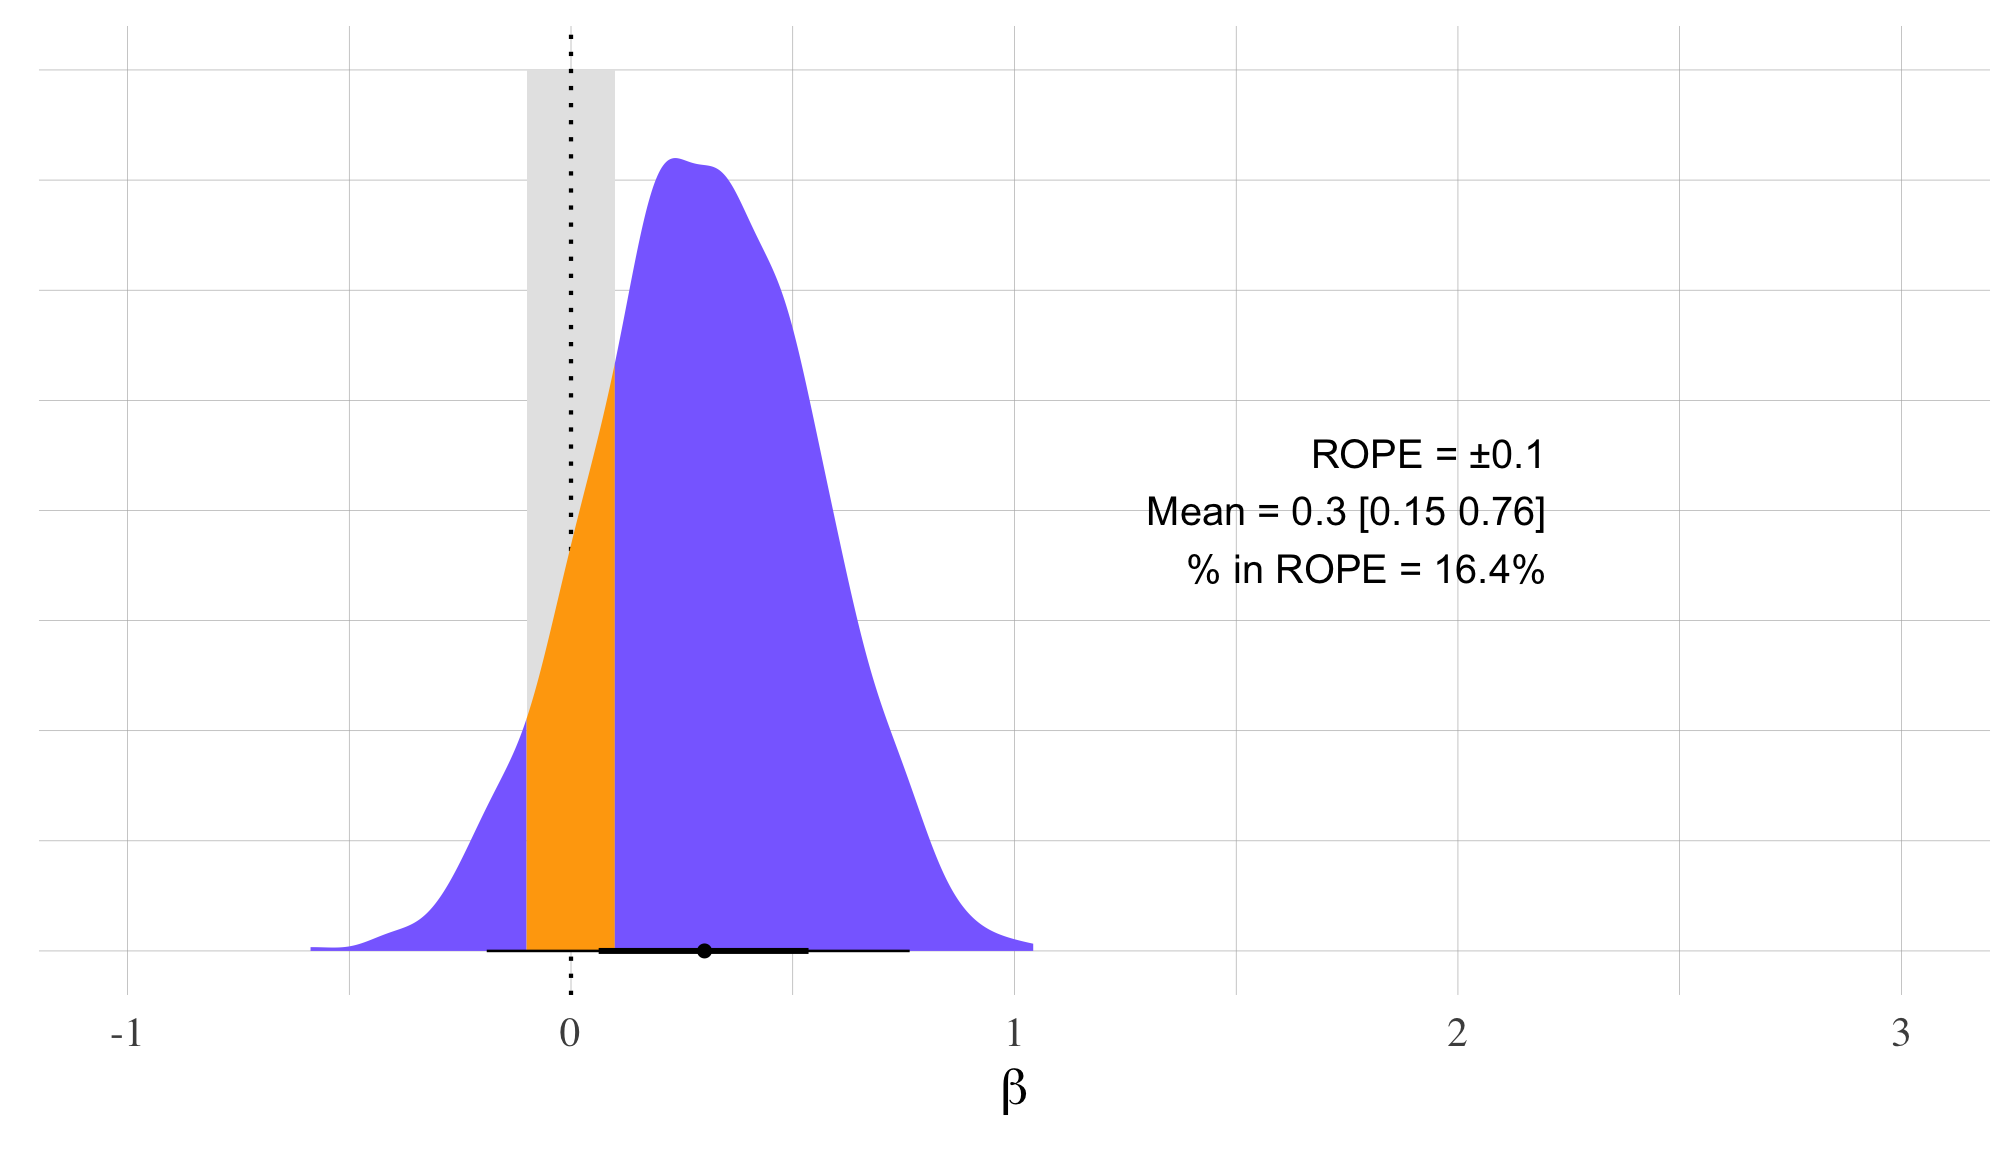
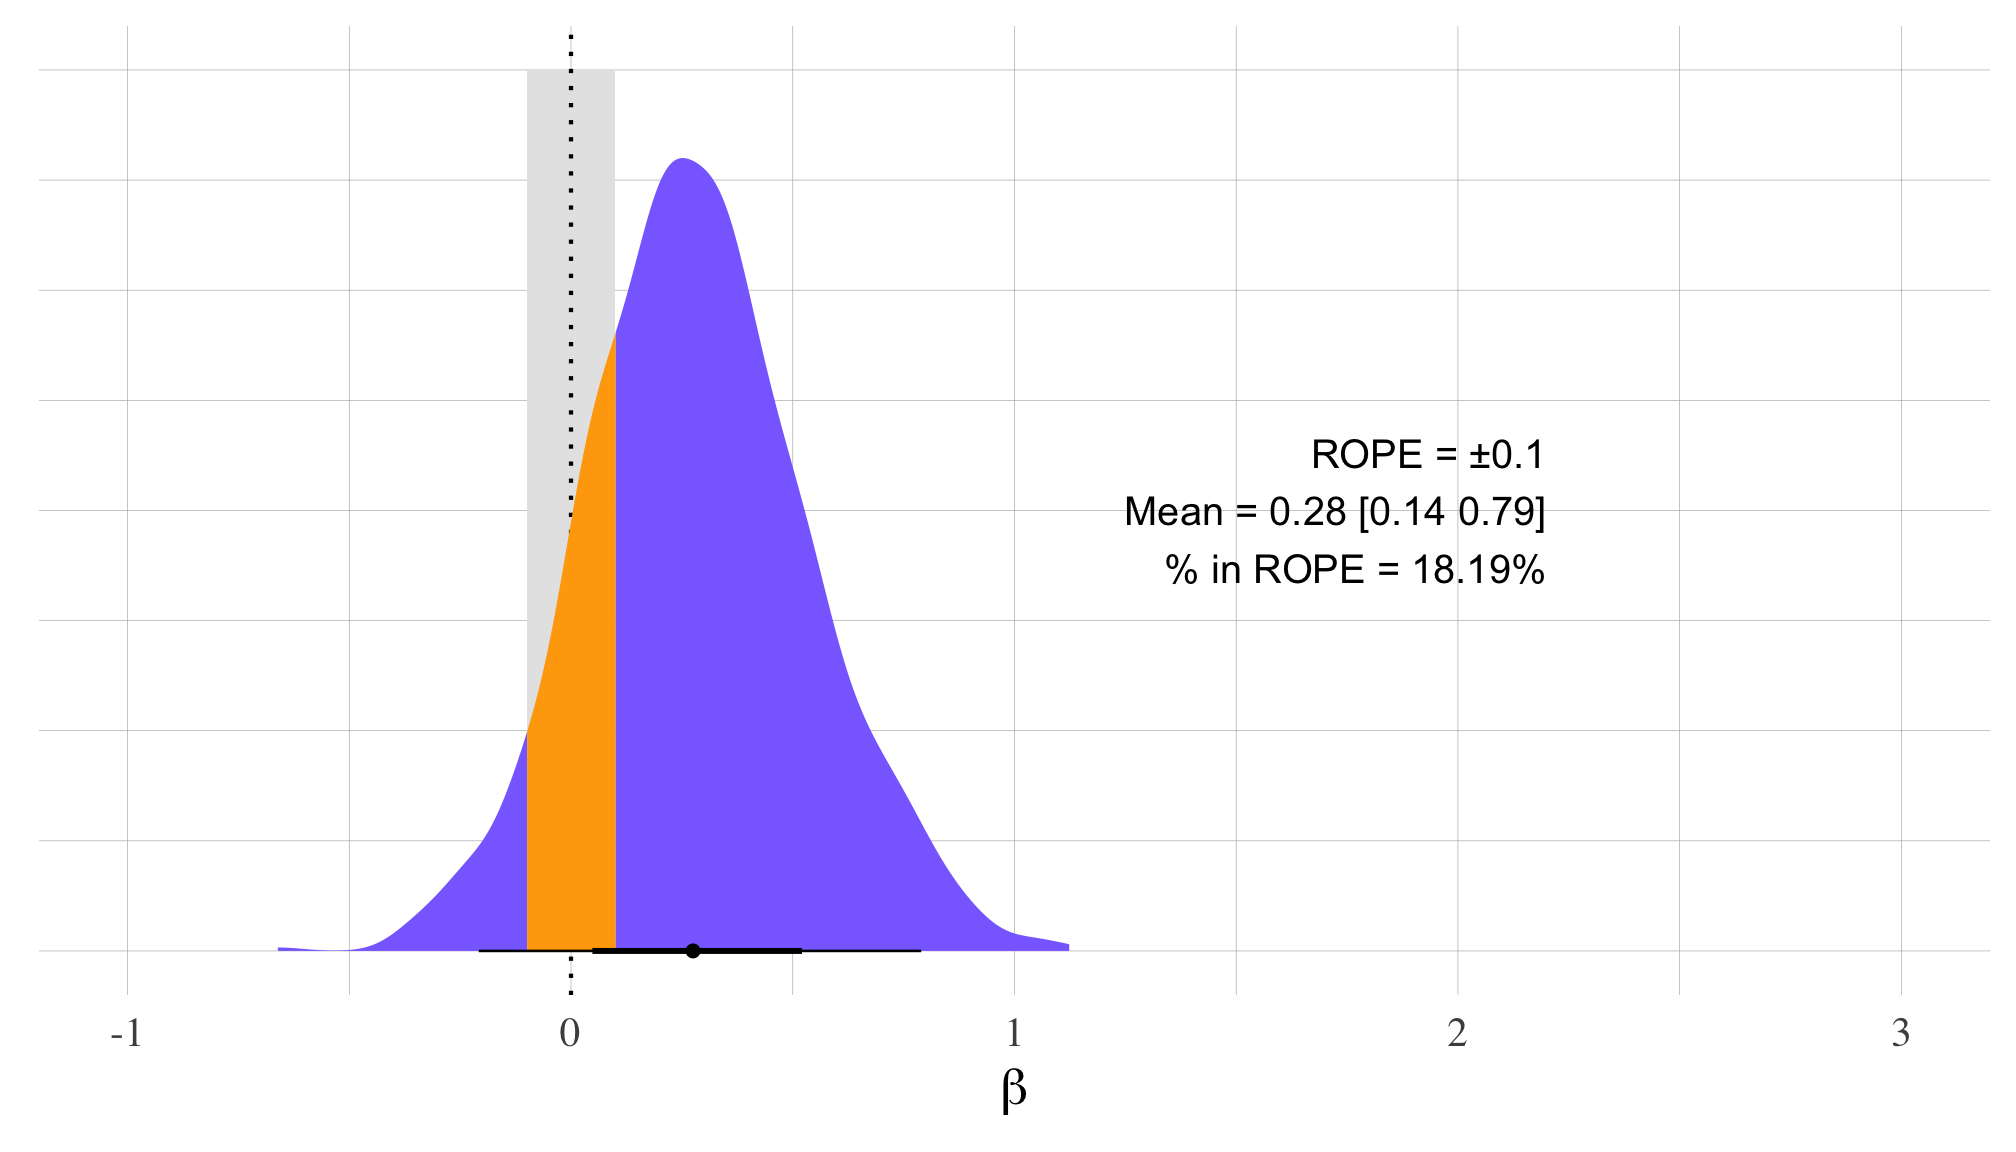
remove excess img and rename keepers

diff --git a/06_a2r_inference_over_posterior/index.html b/06_a2r_inference_over_posterior/index.html
@@ -300,9 +300,9 @@ class: center, middle
 
 ???
 
-Here we can see that the posterior mean is 0.3 and the 95% credible interval ranges from 0.15, 0.76
+Here we can see that the posterior mean is 0.28 and the 95% credible interval ranges from 0.14, 0.79
 
-Furthermore we see that 16.4% of the HDI falls within the ROPE
+Furthermore we see that 18.19% of the HDI falls within the ROPE
 
 This is visible in the plot with the orange vertical slab
 
@@ -488,11 +488,6 @@ class: title-slide-section-blue, middle, center
 
 # Live coding
 
-&lt;!--
-PRACTICAL (longer): Run model on Bodo’s data with prepared RMarkdown
-
-think of new hypotheses to test, use your favorite method (or all of them)
---&gt; 
     </textarea>
 <style data-target="print-only">@media screen {.remark-slide-container{display:block;}.remark-slide-scaler{box-shadow:none;}}</style>
 <script src="https://remarkjs.com/downloads/remark-latest.min.js"></script>
